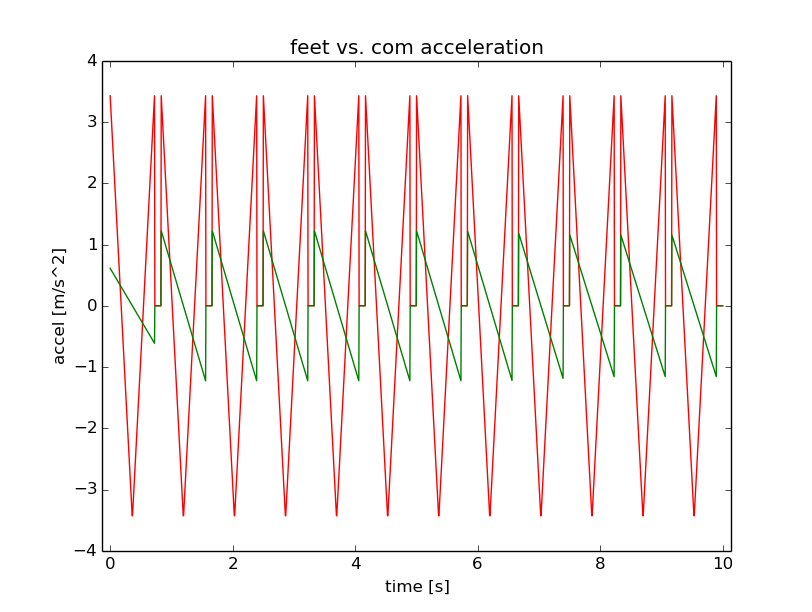
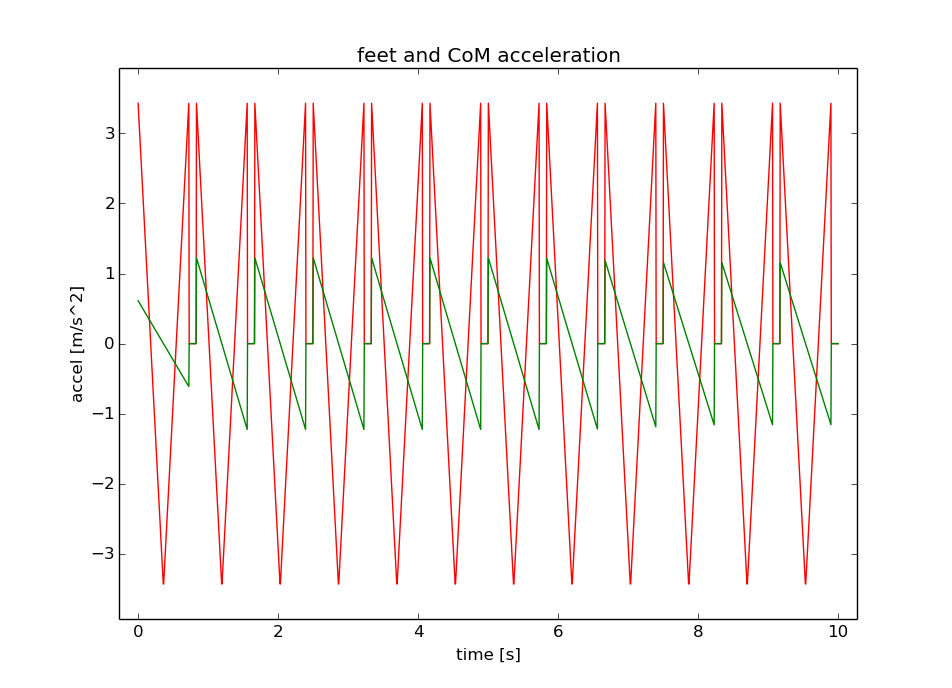
bugfix

Changed region(s): [[0.0616, 0.0621, 0.9236, 0.9935]]

diff --git a/walking/loop.py b/walking/loop.py
@@ -99,24 +99,10 @@ def main():
    #plot CoM and CoP
    plt.plot(cop[0, :], cop[1, :], 'g')
    plt.plot(st[:, 0], st[:, 3], 'b')
-
-   #plot time evolution of CoP coords and its constraints
-   fig1, ax1 = plt.subplots(1)
-   plt.title('CoP and its constraints')
-   ax1.set_ylabel('CoP coords [m]')
-   ax1.set_xlabel('time [s]')
-   plt.axis('equal')
-   plt.plot(tms,  st[:, 3], 'm')
-   plt.plot(tms, cop[0, :], 'r+')
-   plt.plot(tms, cop[1, :], 'm+')
-   plt.plot(tm, cstr[:, 0], 'go')
-   plt.plot(tm, cstr[:, 1], 'bo')
-   plt.plot(tm, cstr[:, 2], 'go')
-   plt.plot(tm, cstr[:, 3], 'bo')
    
    #plot time evolution of feet trajectory coords
    fig2, ax2 = plt.subplots(1)
-   plt.title('feet vs. com acceleration')
+   plt.title('feet and CoM acceleration')
    ax2.set_ylabel('accel [m/s^2]')
    ax2.set_xlabel('time [s]')
    plt.axis('equal')
